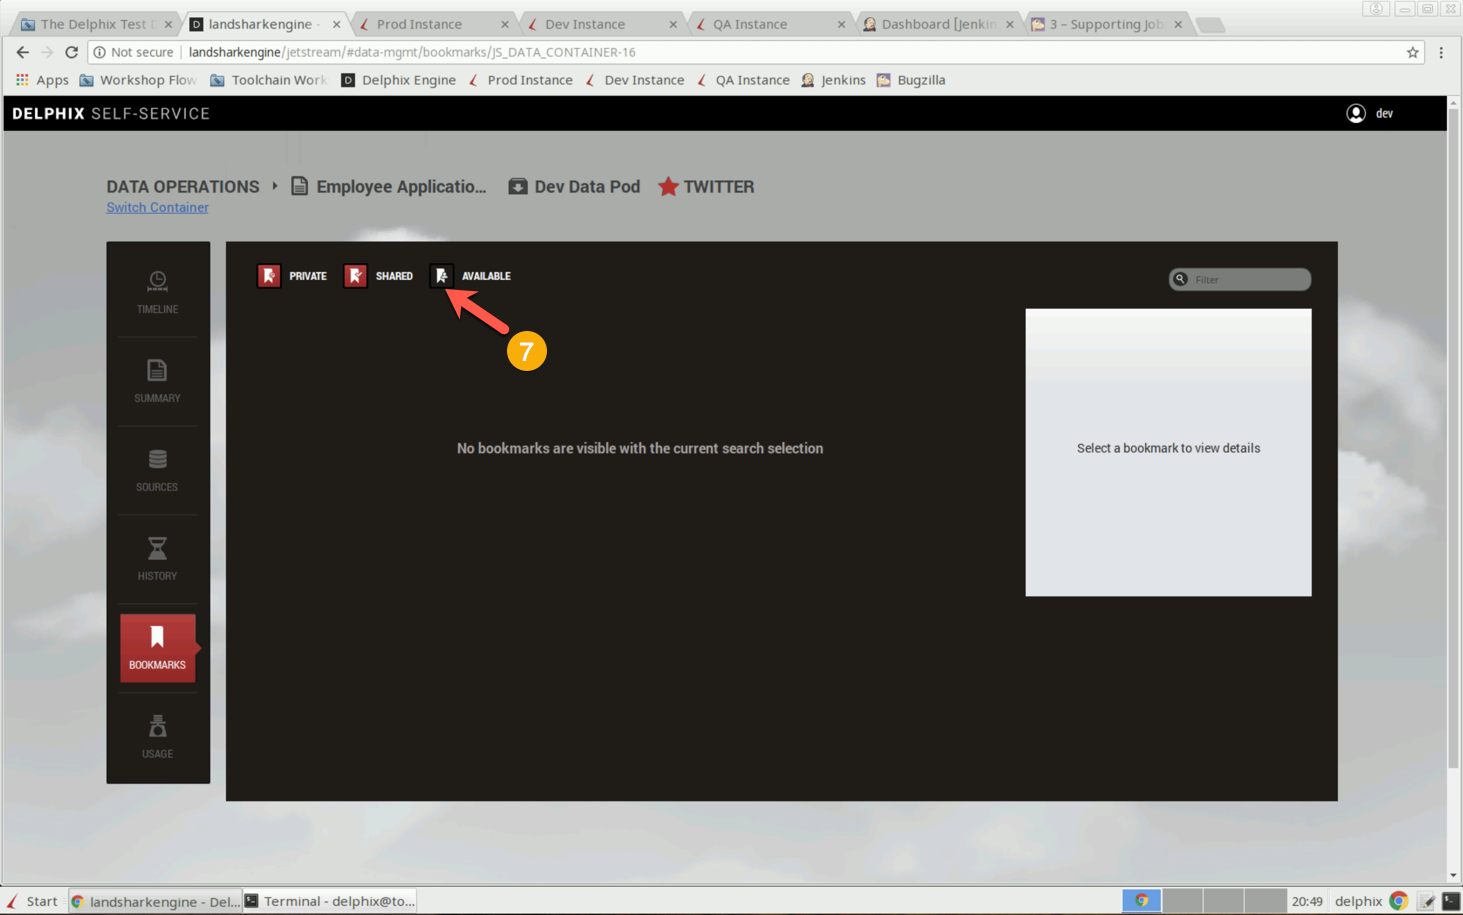
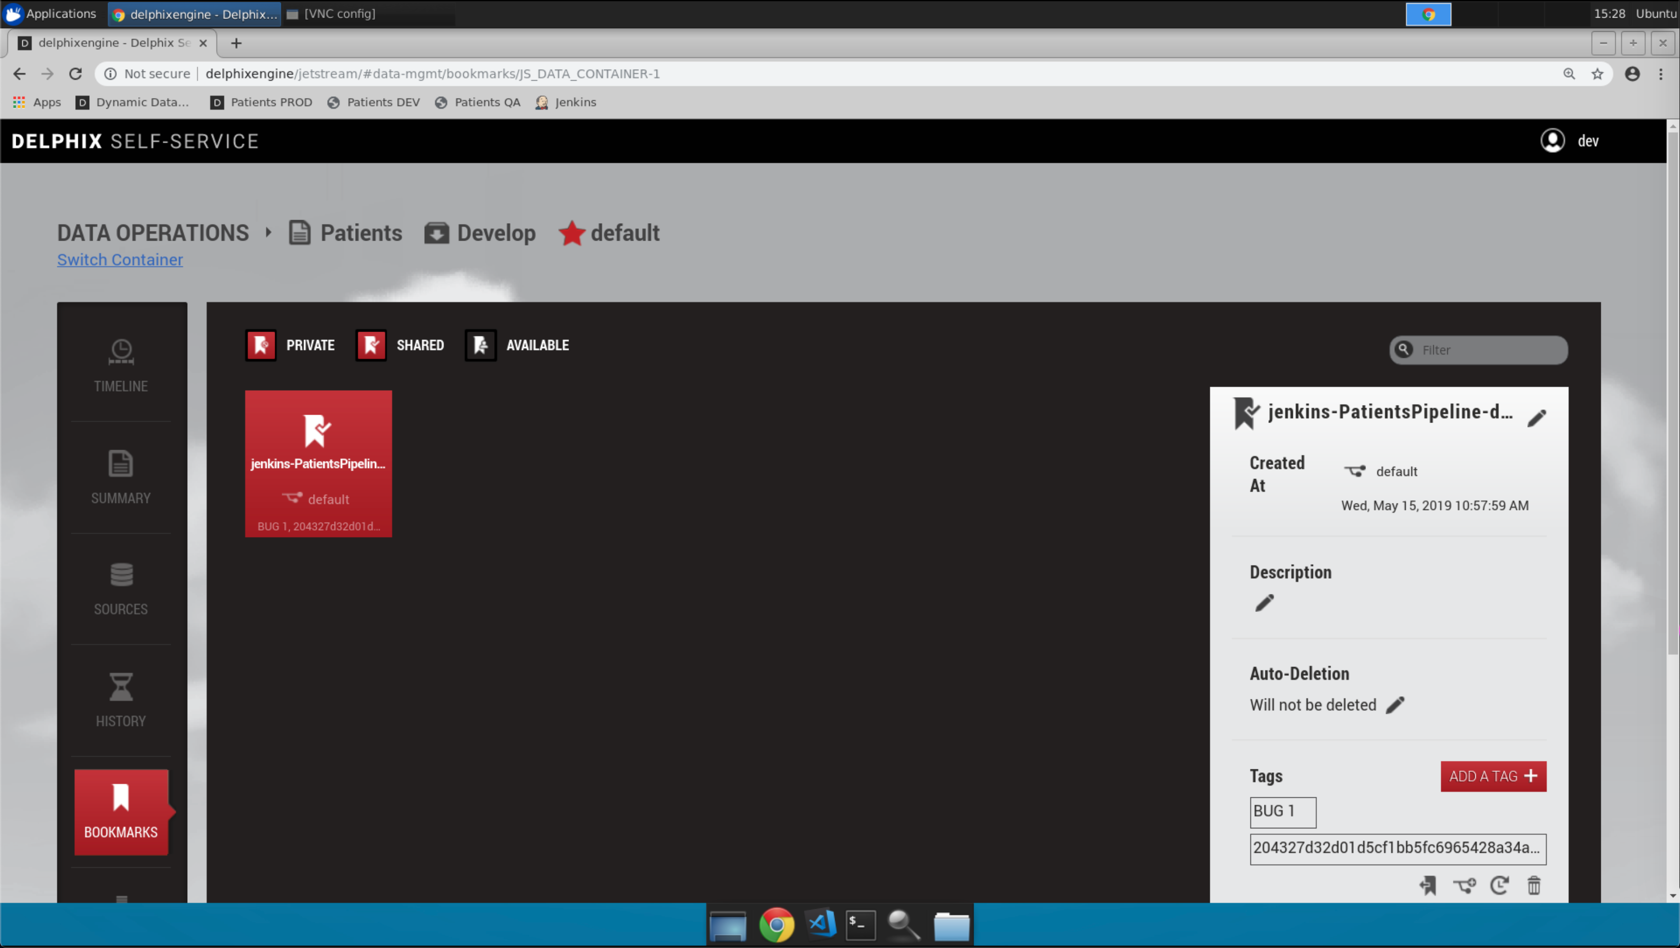
updates

diff --git a/pages/tdc/acti/tdc_acti_9.md b/pages/tdc/acti/tdc_acti_9.md
@@ -13,39 +13,31 @@ toc: false
 Now that we validated our changes worked in our development environment, it is time for us to merge our feature branch to promote our changes along.
 
 {% capture eclipse_steps %}
-1. Bring Eclipse to the foreground
-2. Click on the git view in Eclipse
-3. Right-click on the maven repository and choose `Pull`. This will ensure we have all the latest changes to our feature branch `(do not skip this step)`
-   {% include custom/image_popout.html file="acti/works_in_my_environment_eclipse_1.png" %}
-4. Click `Close` on the `Pull Result` dialog box
-   {% include custom/image_popout.html file="acti/works_in_my_environment_eclipse_2.png" %}
-5. Right-click on the maven repository and choose `Switch To -> master`.
-   {% include custom/image_popout.html file="acti/works_in_my_environment_eclipse_3.png" %}
-6. Right-click on the maven repository and choose `Merge...`
-   {% include custom/image_popout.html file="acti/works_in_my_environment_eclipse_4.png" %}
-7. Choose `origin/TWITTER` in the `Merge master` dialog box
-8. Click `Merge`
-   {% include custom/image_popout.html file="acti/works_in_my_environment_eclipse_5.png" %}
-9. Click `OK` on the `Merge Result` dialog box
-   {% include custom/image_popout.html file="acti/works_in_my_environment_eclipse_6.png" %}
-10. Right-click on the maven repository and choose `Push to Upstream`
-    {% include custom/image_popout.html file="acti/works_in_my_environment_eclipse_7.png" %}
-11. Click `OK` on the `Push Results` dialog box
-    {% include custom/image_popout.html file="acti/works_in_my_environment_eclipse_8.png" %}
+1. Launch VS Code, bring it to the foreground, and click on the Explorer Button (in yellow square, below)
+2. Click the sync icon across the bottom (in yellow square, below) OR by using the `more actions` menu and selecting `pull`
+   {% include custom/image_popout.html file="acti/works_in_my_environment_vscode_1.png" %}
+3. Click 'OK' if you are prompted to confirm.
+4. Click on `develop` in the checkout menu (in yellow rectangle) and select `master` (in purple oval).
+   {% include custom/image_popout.html file="acti/works_in_my_environment_vscode_2.png" %}
+6. In the `View` menu, select the `Command Palette` (or use CTRL+SHIFT+P).
+7. Type `merge branch` in the dialog box
+   {% include custom/image_popout.html file="acti/works_in_my_environment_vscode_3.png" %}
+8. Select `develop` in the `Select a branch to merge from` dialog box
+   {% include custom/image_popout.html file="acti/works_in_my_environment_vscode_4.png" %}
+9. Click the sync icon across the bottom (in yellow square, below) OR by using the `more actions` menu and selecting `push`
+   {% include custom/image_popout.html file="acti/works_in_my_environment_vscode_5.png" %}
+3. Click 'OK' if you are prompted to confirm.
 {% endcapture %}
 
 {% capture git_steps %}
 1. Go back to our ssh terminal and enter `git pull` This will ensure we have all the latest changes to our feature branch `(do not skip this step)`
-2. Enter the delphix user password, when prompted
 3. Enter `git checkout master`
-4. Enter `git merge TWITTER`
+4. Enter `git merge develop`
    {% include custom/image_popout.html file="acti/works_in_my_environment_git_1.png" %}
 5. Enter `git push`
    {% include custom/image_popout.html file="acti/works_in_my_environment_git_2.png" %}
-6. Enter the delphix user password, when prompted
-   {% include custom/image_popout.html file="acti/works_in_my_environment_git_3.png" %}
 7. You should see some output return in your console with `master -> master` at the bottom.
-   {% include custom/image_popout.html file="acti/works_in_my_environment_git_4.png" %}
+   {% include custom/image_popout.html file="acti/works_in_my_environment_git_3.png" %}
 {% endcapture %}
 
 {% include custom/steps.html eclipse_steps=eclipse_steps git_steps=git_steps %}

diff --git a/pages/tdc/acti/tdc_acti_8.2.md b/pages/tdc/acti/tdc_acti_8.2.md
@@ -22,15 +22,15 @@ In this scene, we will login to the DDP self service and watch the population of
    {% include custom/image_popout.html file="actii/bugs_happen_2.png" %}
 4. If this is your first login, you will be prompted to change the password. Set the password to delphix
    {% include custom/image_popout.html file="actii/bugs_happen_3.png" %}
-5. You should now be in the Data Operations screen. Click on Dev Data Pod
+5. You should now be in the Data Operations screen. Click on `Develop`
    {% include custom/image_popout.html file="actii/bugs_happen_4.png" %}
-6. You should now see the timeline for Dev Data Pod. Click on the Bookmarks button.
+6. You should now see the timeline for `Develop` data pod. Click on the Bookmarks button.
    {% include custom/image_popout.html file="actii/bugs_happen_5.png" %}
-7. Your bookmarks section will be empty, because the dev user has not created any bookmarks yet for their data pod. Click Available.
+7. You will see one bookmark present. This bookmark was created automatically when our first build failed. Click on the bookmark. You can see that the bookmark is tagged with a Bugzilla ticket number and the git commit hash.
    {% include custom/image_popout.html file="actii/bugs_happen_6.png" %}
-8. You should now see bookmarks that have been shared with you via the `Nightly Test Data Catalog Build`.
-   {% include custom/image_popout.html file="acti/viewing_the_data_catalog_1.png" %}
-9. Bookmarks are searchable. Search for the bookmark that corresponds to today's Data Catalog items currently being generated. In the example below, today is October 21, 2018.
-   {% include custom/image_popout.html file="acti/viewing_the_data_catalog_2.png" %}
-10. You might not see anything at the moment, but as the `Nightly Test Data Catalog Build` progresses, you will see new bookmarks become available.
+8. Click `Available` (in yellow rectangle). You should now see bookmarks that have been shared with you via the `Data Pipeline`.
+   {% include custom/image_popout.html file="acti/viewing_the_data_repo_1.png" %}
+9. You might not see anything at the moment, but as the `Data Pipeline` build progresses, you will see new bookmarks become available.
+10. Bookmarks are searchable. Search for the bookmark that corresponds to the `Full` dataset.
+    {% include custom/image_popout.html file="acti/viewing_the_data_repo_2.png" %}
 {% include links.html %}

diff --git a/pages/tdc/acti/tdc_acti_5.md b/pages/tdc/acti/tdc_acti_5.md
@@ -11,7 +11,7 @@ toc: false
 ---
 
 {% capture eclipse_steps %}
-1.  Launch VS Code, bring it to the foreground, and click on the Explorer Button (in yellow square, below)
+1. Launch VS Code, bring it to the foreground, and click on the Explorer Button (in yellow square, below)
 2. Expand the folders `sql_code->ddl` and double-click on add_notes.sql (designated by a red arrow)
 3. Examine the script 
    {% include custom/image_popout.html file="acti/fix_our_script_vscode_1.png" %}
